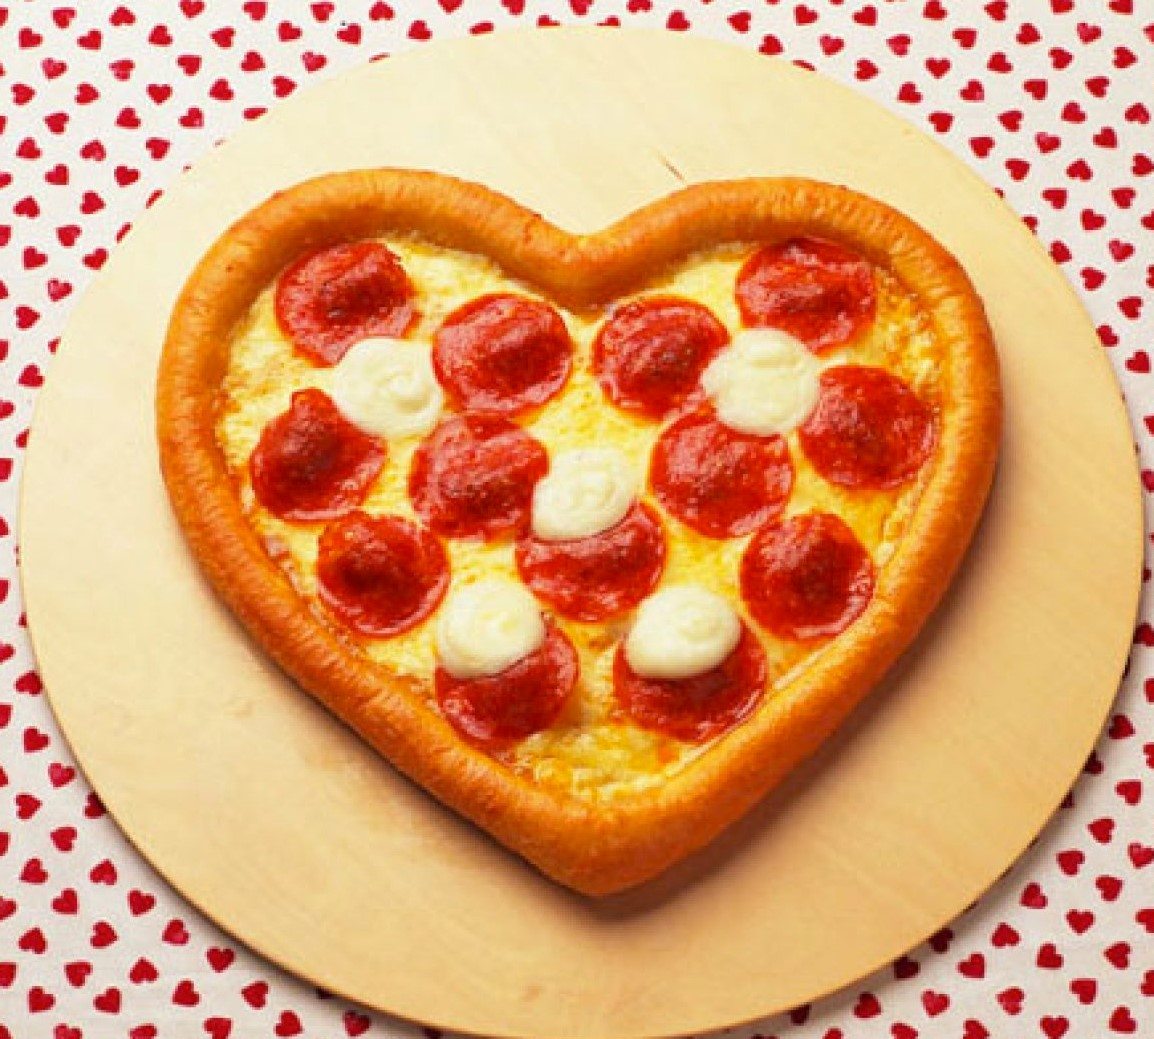
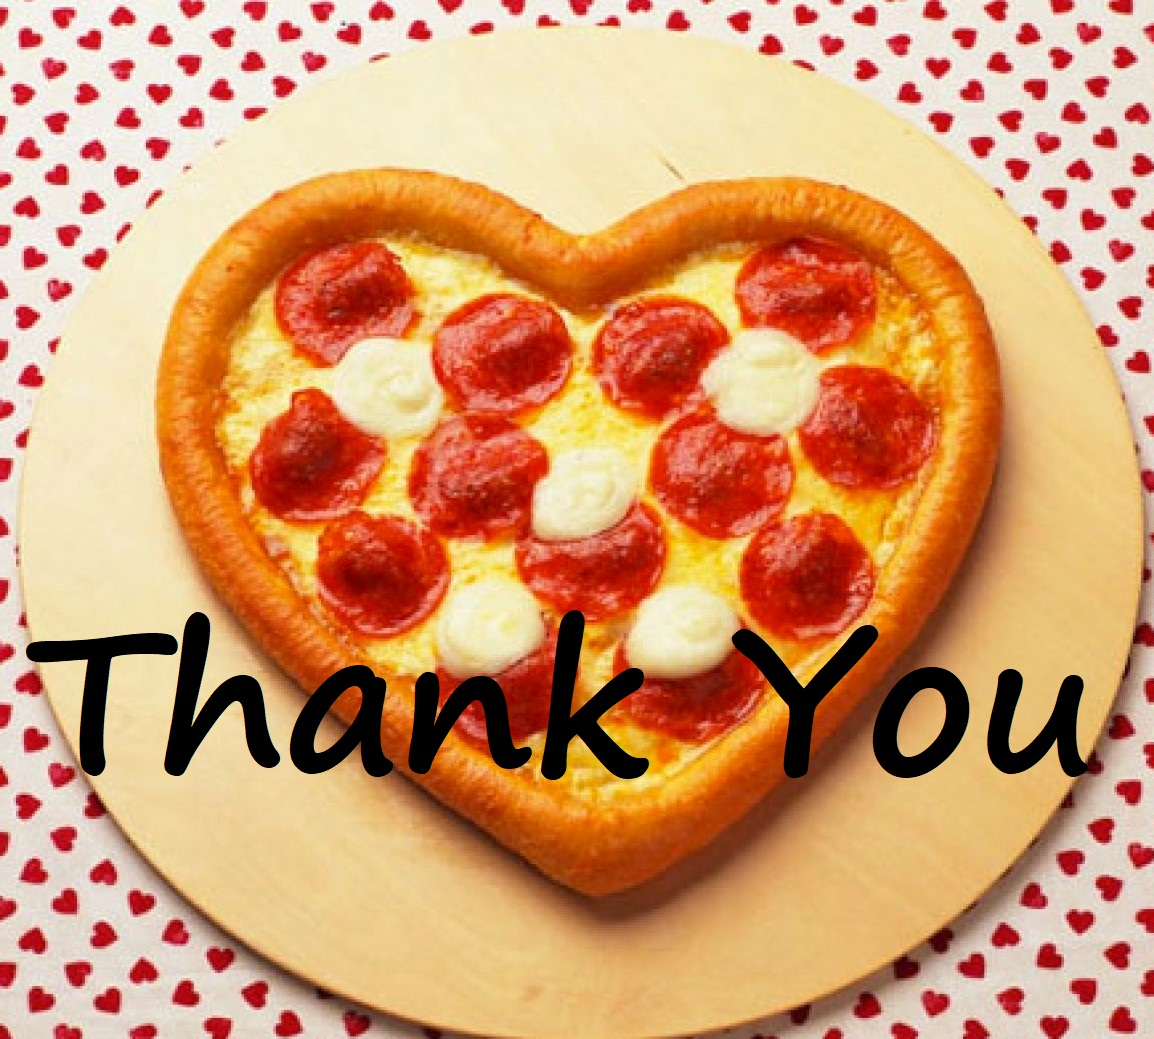
add footer and header to project

Changed region(s): [[0.0, 0.5852, 0.5615, 0.77], [0.6239, 0.5852, 0.9359, 0.77]]

diff --git a/index.html b/index.html
@@ -87,7 +87,10 @@
       </div>
     </div>
     <div id="receipt">
-      <div>
+      <img id="thankyou-img" src="img/ThankYouPizza.jpg">
+      <div id="thank-you">
+
+      </div>
     </div>
     <div id="footer">
       <p>This site is only an example project for <a href="https://www.epicodus.com/">Epicodus</a>.<br>No information is saved and you will not get a pizza, sorry.</p>

diff --git a/js/scripts.js b/js/scripts.js
@@ -141,7 +141,7 @@ $(document).ready(function() {
 
     let receipt = receiptHTML(number, paid, address, recOption);
     
-    $("#receipt").html(receipt);
+    $("#thank-you").html(receipt);
     $("#confirm-order").hide();
     $("#receipt").show();
   })

diff --git a/css/styles.css b/css/styles.css
@@ -55,5 +55,11 @@ body {
 
 #receipt {
   margin: 5% 20%;
-  
+  font-family: 'Times New Roman', Times, serif
+}
+
+#thankyou-img {
+  float: right;
+  width: 50%;
+  border-radius: 50px;
 }
